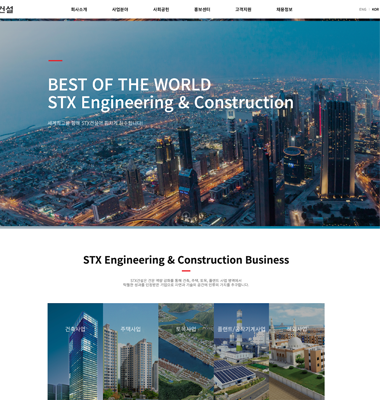
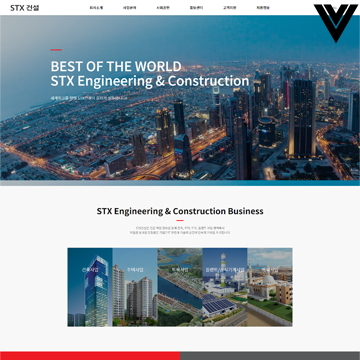
수정본

diff --git a/index.html b/index.html
@@ -109,6 +109,7 @@
                                 <i class="icon-mail-2"><span>Email: <b>dev.sm6683@gmail.com</b></span></i>
                                 <i class="icon-mobile"><span>Phone: <b>010-6683-7577</b></span></i>
                                 <i class="icon-location"><span>Location: <b>In Daegu</b></span></i>
+                                <i class="icon-info"><span>MBTI: <b>ESFJ</b></span></i>
                             </div>
                         </div>
                         <div class="ab-right">
@@ -238,9 +239,9 @@
                                     <div class="work-content">
                                         <h3 class="work-title">STX건설 Clone Coding</h3>
                                         <ul>
-                                            <li><a href="#"><i class="icon-github-circled">Giithub</i></a></li>
-                                            <li><a href="#"><i class="icon-wrench">Work</i></a></li>
-                                            <li><a href="#"><i class="icon-wrench">origin</i></a></li>
+                                            <li><a href="https://github.com/min6683/stxconst" target="_blank"><i class="icon-github-circled">Giithub</i></a></li>
+                                            <li><a href="https://min6683.github.io/stxconst/" target="_blank"><i class="icon-wrench">Work</i></a></li>
+                                            <li><a href="http://www.stxconst.co.kr/" target="_blank"><i class="icon-wrench">origin</i></a></li>
 
                                         </ul>
                                     </div>
@@ -250,15 +251,15 @@
                         <div class="col-lg-4 col-md-6 col-sm-6">
                             <div class="single-work text-center mt-30">
                                 <div class="work-image">
-                                    <img src="images/stx360.png" alt="work">
+                                    <img src="images/han360.png" alt="work">
                                 </div>
                                 <div class="work-overlay">
                                     <div class="work-content">
-                                        <h3 class="work-title">STX건설 Clone Coding</h3>
+                                        <h3 class="work-title">한살림 장보기 Clone Coding <br>DB, json 버전</h3>
                                         <ul>
-                                            <li><a href="#"><i class="icon-github-circled">Giithub</i></a></li>
-                                            <li><a href="#"><i class="icon-wrench">Work</i></a></li>
-                                            <li><a href="#"><i class="icon-wrench">origin</i></a></li>
+                                            <li><a href="https://github.com/min6683/hansalim" target="_blank"><i class="icon-github-circled">Giithub</i></a></li>
+                                            <li><a href="https://min6683.github.io/hansalim/" target="_blank"><i class="icon-wrench">Work</i></a></li>
+                                            <li><a href="https://shop.hansalim.or.kr/shopping/spMain.do" target="_blank"><i class="icon-wrench">origin</i></a></li>
 
                                         </ul>
                                     </div>
@@ -268,15 +269,15 @@
                         <div class="col-lg-4 col-md-6 col-sm-6">
                             <div class="single-work text-center mt-30">
                                 <div class="work-image">
-                                    <img src="images/stx360.png" alt="work">
+                                    <img src="images/klia360.png" alt="work">
                                 </div>
                                 <div class="work-overlay">
                                     <div class="work-content">
-                                        <h3 class="work-title">STX건설 Clone Coding</h3>
+                                        <h3 class="work-title">생명보험협회 Clone Coding<br>반응형 구현</h3>
                                         <ul>
-                                            <li><a href="#"><i class="icon-github-circled">Giithub</i></a></li>
-                                            <li><a href="#"><i class="icon-wrench">Work</i></a></li>
-                                            <li><a href="#"><i class="icon-wrench">origin</i></a></li>
+                                            <li><a href="https://github.com/min6683/klia" target="_blank"><i class="icon-github-circled">Giithub</i></a></li>
+                                            <li><a href="https://min6683.github.io/klia/" target="_blank"><i class="icon-wrench">Work</i></a></li>
+                                            <li><a href="https://www.klia.or.kr/" target="_blank"><i class="icon-wrench">origin</i></a></li>
 
                                         </ul>
                                     </div>
@@ -286,15 +287,15 @@
                         <div class="col-lg-4 col-md-6 col-sm-6">
                             <div class="single-work text-center mt-30">
                                 <div class="work-image">
-                                    <img src="images/stx360.png" alt="work">
+                                    <img src="images/green360.png" alt="work">
                                 </div>
                                 <div class="work-overlay">
                                     <div class="work-content">
-                                        <h3 class="work-title">STX건설 Clone Coding</h3>
+                                        <h3 class="work-title">풀무원 녹즙 Clone Coding</h3>
                                         <ul>
-                                            <li><a href="#"><i class="icon-github-circled">Giithub</i></a></li>
-                                            <li><a href="#"><i class="icon-wrench">Work</i></a></li>
-                                            <li><a href="#"><i class="icon-wrench">origin</i></a></li>
+                                            <li><a href="https://github.com/min6683/greenjuice" target="_blank"><i class="icon-github-circled">Giithub</i></a></li>
+                                            <li><a href="https://min6683.github.io/greenjuice/" target="_blank"><i class="icon-wrench">Work</i></a></li>
+                                            <li><a href="https://greenjuice.pulmuone.com/" target="_blank"><i class="icon-wrench">origin</i></a></li>
 
                                         </ul>
                                     </div>
@@ -304,15 +305,15 @@
                         <div class="col-lg-4 col-md-6 col-sm-6">
                             <div class="single-work text-center mt-30">
                                 <div class="work-image">
-                                    <img src="images/stx360.png" alt="work">
+                                    <img src="images/pnuh360.png" alt="work">
                                 </div>
                                 <div class="work-overlay">
                                     <div class="work-content">
-                                        <h3 class="work-title">STX건설 Clone Coding</h3>
+                                        <h3 class="work-title">부산대병원 Clone Coding</h3>
                                         <ul>
-                                            <li><a href="#"><i class="icon-github-circled">Giithub</i></a></li>
-                                            <li><a href="#"><i class="icon-wrench">Work</i></a></li>
-                                            <li><a href="#"><i class="icon-wrench">origin</i></a></li>
+                                            <li><a href="https://github.com/min6683/pnuh" target="_blank"><i class="icon-github-circled">Giithub</i></a></li>
+                                            <li><a href="https://min6683.github.io/pnuh/" target="_blank"><i class="icon-wrench">Work</i></a></li>
+                                            <li><a href="https://www.pnuh.or.kr/pnuh/main/main.do?rbsIdx=1#none" target="_blank"><i class="icon-wrench">origin</i></a></li>
 
                                         </ul>
                                     </div>
@@ -322,15 +323,15 @@
                         <div class="col-lg-4 col-md-6 col-sm-6">
                             <div class="single-work text-center mt-30">
                                 <div class="work-image">
-                                    <img src="images/stx360.png" alt="work">
+                                    <img src="images/san360.png" alt="work">
                                 </div>
                                 <div class="work-overlay">
                                     <div class="work-content">
-                                        <h3 class="work-title">STX건설 Clone Coding</h3>
+                                        <h3 class="work-title">산청군청 Clone Coding<br>반응형 구현</h3>
                                         <ul>
-                                            <li><a href="#"><i class="icon-github-circled">Giithub</i></a></li>
-                                            <li><a href="#"><i class="icon-wrench">Work</i></a></li>
-                                            <li><a href="#"><i class="icon-wrench">origin</i></a></li>
+                                            <li><a href="https://github.com/min6683/sancheong" target="_blank"><i class="icon-github-circled">Giithub</i></a></li>
+                                            <li><a href="https://min6683.github.io/sancheong/" target="_blank"><i class="icon-wrench">Work</i></a></li>
+                                            <li><a href="https://www.sancheong.go.kr/www/index.do" target="_blank"><i class="icon-wrench">origin</i></a></li>
 
                                         </ul>
                                     </div>
@@ -340,16 +341,14 @@
                         <div class="col-lg-4 col-md-6 col-sm-6">
                             <div class="single-work text-center mt-30">
                                 <div class="work-image">
-                                    <img src="images/stx360.png" alt="work">
+                                    <img src="images/vuestx.png" alt="work">
                                 </div>
                                 <div class="work-overlay">
                                     <div class="work-content">
-                                        <h3 class="work-title">STX건설 Clone Coding</h3>
+                                        <h3 class="work-title">STX건설 Vue.js 버전</h3>
                                         <ul>
-                                            <li><a href="#"><i class="icon-github-circled">Giithub</i></a></li>
-                                            <li><a href="#"><i class="icon-wrench">Work</i></a></li>
-                                            <li><a href="#"><i class="icon-wrench">origin</i></a></li>
-
+                                            <li><a href="https://github.com/min6683/stxvue" target="_blank"><i class="icon-github-circled">Giithub</i></a></li>
+                                            <li><a href="http://sm6683.dothome.co.kr/stxvue/"><i class="icon-wrench">Work</i></a></li>
                                         </ul>
                                     </div>
                                 </div>
@@ -358,16 +357,13 @@
                         <div class="col-lg-4 col-md-6 col-sm-6">
                             <div class="single-work text-center mt-30">
                                 <div class="work-image">
-                                    <img src="images/stx360.png" alt="work">
+                                    <img src="images/appvue.png" alt="work">
                                 </div>
                                 <div class="work-overlay">
                                     <div class="work-content">
-                                        <h3 class="work-title">STX건설 Clone Coding</h3>
+                                        <h3 class="work-title">투두 리스트 Vue.js 버전</h3>
                                         <ul>
-                                            <li><a href="#"><i class="icon-github-circled">Giithub</i></a></li>
-                                            <li><a href="#"><i class="icon-wrench">Work</i></a></li>
-                                            <li><a href="#"><i class="icon-wrench">origin</i></a></li>
-
+                                            <li><a href="https://github.com/min6683/todoapp" target="_blank"><i class="icon-github-circled">Giithub</i></a></li>
                                         </ul>
                                     </div>
                                 </div>
@@ -376,16 +372,13 @@
                         <div class="col-lg-4 col-md-6 col-sm-6">
                             <div class="single-work text-center mt-30">
                                 <div class="work-image">
-                                    <img src="images/stx360.png" alt="work">
+                                    <img src="images/vuetodo.png" alt="work">
                                 </div>
                                 <div class="work-overlay">
                                     <div class="work-content">
-                                        <h3 class="work-title">STX건설 Clone Coding</h3>
+                                        <h3 class="work-title">투두리스트 vue php버전</h3>
                                         <ul>
-                                            <li><a href="#"><i class="icon-github-circled">Giithub</i></a></li>
-                                            <li><a href="#"><i class="icon-wrench">Work</i></a></li>
-                                            <li><a href="#"><i class="icon-wrench">origin</i></a></li>
-
+                                            <li><a href="https://github.com/min6683/vuephp" target="_blank"><i class="icon-github-circled">Giithub</i></a></li>
                                         </ul>
                                     </div>
                                 </div>
@@ -439,14 +432,22 @@
                     <h2 class="main-title">Contact</h2>
                     <div class="contact-wrap">
                         <ul class="contact-list">
-                            <li><a href="https://github.com/min6683" target="_blank"><i class="icon-github-circled"></i></a></li>
-                            <li><a href="https://open.kakao.com/o/sgc5Saee" target="_blank"><i class="icon-comment"></i></a></li>
-                            <li><a href="#"><i class="icon-instagram" target="_blank"></i></a></li>
-                            <li><a href="mailto:dev.sm6683@gmail.com" target="_blank"><i class="icon-mail-1"></i></a></li>
+                            <li><a href="https://github.com/min6683" target="_blank"><i
+                                        class="icon-github-circled"></i></a></li>
+                            <li><a href="https://open.kakao.com/o/sgc5Saee" target="_blank"><i
+                                        class="icon-comment"></i></a></li>
+                            <li><a href="https://blog.naver.com/cksdl124"><i class="icon-blogger"
+                                        target="_blank"></i></a></li>
+                            <li><a href="mailto:dev.sm6683@gmail.com" target="_blank"><i class="icon-mail-1"></i></a>
+                            </li>
                         </ul>
                     </div>
                 </div>
             </section>
+            <!-- footer -->
+            <footer class="footer">
+
+            </footer>
         </div>
 
     </div>

diff --git a/css/style.css b/css/style.css
@@ -138,7 +138,7 @@ body {
     position: relative;
     display: block;
 }
-
+/* visual */
 .visual {
     position: relative;
     display: block;
@@ -286,10 +286,11 @@ body {
     box-shadow: 0 6px 25px rgb(86 86 77 / 49%);
 
 }
+/* //visual */
 
 
 
-
+/* about */
 .about {
     position: relative;
     display: block;
@@ -351,6 +352,7 @@ body {
     max-width: 50%;
     flex-grow: 1;
 }
+
 .ab-right img {
     box-shadow: 0 6px 25px rgb(86 86 77 / 49%);
 
@@ -395,6 +397,7 @@ body {
     border: 1px solid #eceff8;
     border-radius: 5px;
     padding: 25px;
+    margin-bottom: 20px;
     -webkit-transition: all 0.3s ease-out 0s;
     -moz-transition: all 0.3s ease-out 0s;
     -ms-transition: all 0.3s ease-out 0s;
@@ -531,6 +534,10 @@ body {
     margin-top: 15px;
 }
 
+/* //about */
+
+
+/* project */
 .project {
     position: relative;
     display: block;
@@ -542,7 +549,7 @@ body {
 
 .work-image img {
     box-shadow: 0 6px 25px rgb(86 86 77 / 49%);
-    
+
 }
 
 
@@ -556,6 +563,7 @@ body {
     position: relative;
     display: inline-block;
     text-align: center;
+    margin-bottom: 20px;
 }
 
 .single-work .work-image img {
@@ -656,14 +664,15 @@ body {
 .single-work .work-overlay .work-content ul li a:hover {
     background-color: #fff;
     color: #754ef9;
+    margin-bottom: 0 !important;
 }
 
 .single-work .work-overlay .work-content ul li:nth-of-type(1) {
-    -webkit-transform: translateX(-100%);
-    -moz-transform: translateX(-100%);
-    -ms-transform: translateX(-100%);
-    -o-transform: translateX(-100%);
-    transform: translateX(-100%);
+    -webkit-transform: translateX(-500%);
+    -moz-transform: translateX(-500%);
+    -ms-transform: translateX(-500%);
+    -o-transform: translateX(-500%);
+    transform: translateX(-50%);
 }
 
 .single-work .work-overlay .work-content ul li:nth-of-type(2) {
@@ -673,6 +682,7 @@ body {
     -o-transform: translateX(50%);
     transform: translateX(50%);
 }
+
 .single-work .work-overlay .work-content ul li:nth-of-type(3) {
     -webkit-transform: translateX(100%);
     -moz-transform: translateX(100%);
@@ -681,7 +691,6 @@ body {
     transform: translateX(100%);
     font-size: 14px;
 }
-
 
 
 
@@ -708,13 +717,19 @@ body {
     opacity: 1;
 }
 
+/* //project */
+
+
+/* life */
 .life {
     position: relative;
     display: block;
 }
+
 .life .container {
     margin-top: 100px;
 }
+
 .life-wrap {
     position: relative;
 }
@@ -809,7 +824,7 @@ body {
 .snip1445 h4 {
     margin: 5px;
     text-transform: uppercase;
-    
+
 }
 
 .snip1445 h2 {
@@ -860,30 +875,39 @@ body {
     -webkit-transition-delay: 0.15s;
     transition-delay: 0.15s;
 }
+/* //life */
 
+
+
+/* contact */
 .contact {
     position: relative;
     display: block;
 }
-.contact .container{
+
+.contact .container {
     margin-top: 600px;
     margin-bottom: 100px;
 }
+
 .contact-wrap {
     position: relative;
     display: block;
 }
+
 .contact-list {
     position: relative;
     display: block;
     text-align: center;
 }
+
 .contact-list li {
     position: relative;
     display: inline-block;
 
 }
+
 .contact-list li a {
     font-size: 30px;
 }
-
+/* contact */
